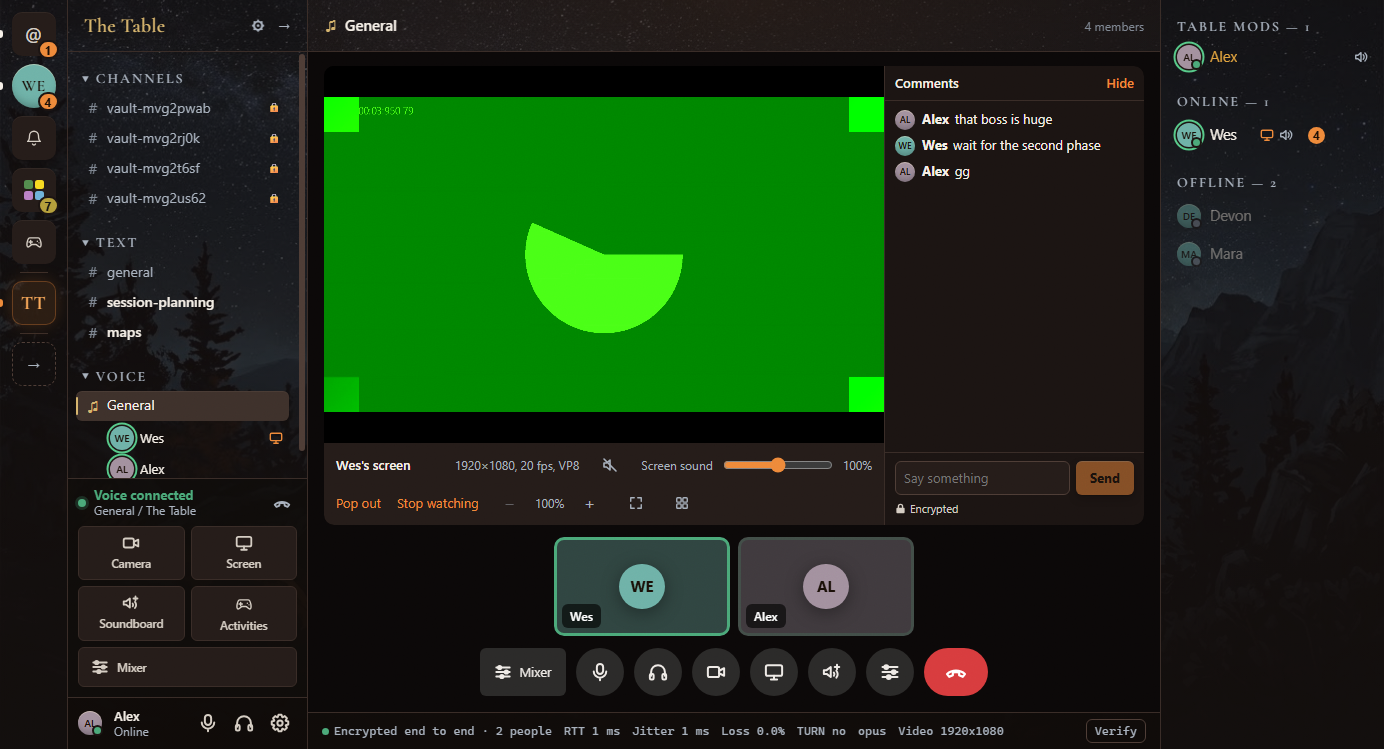
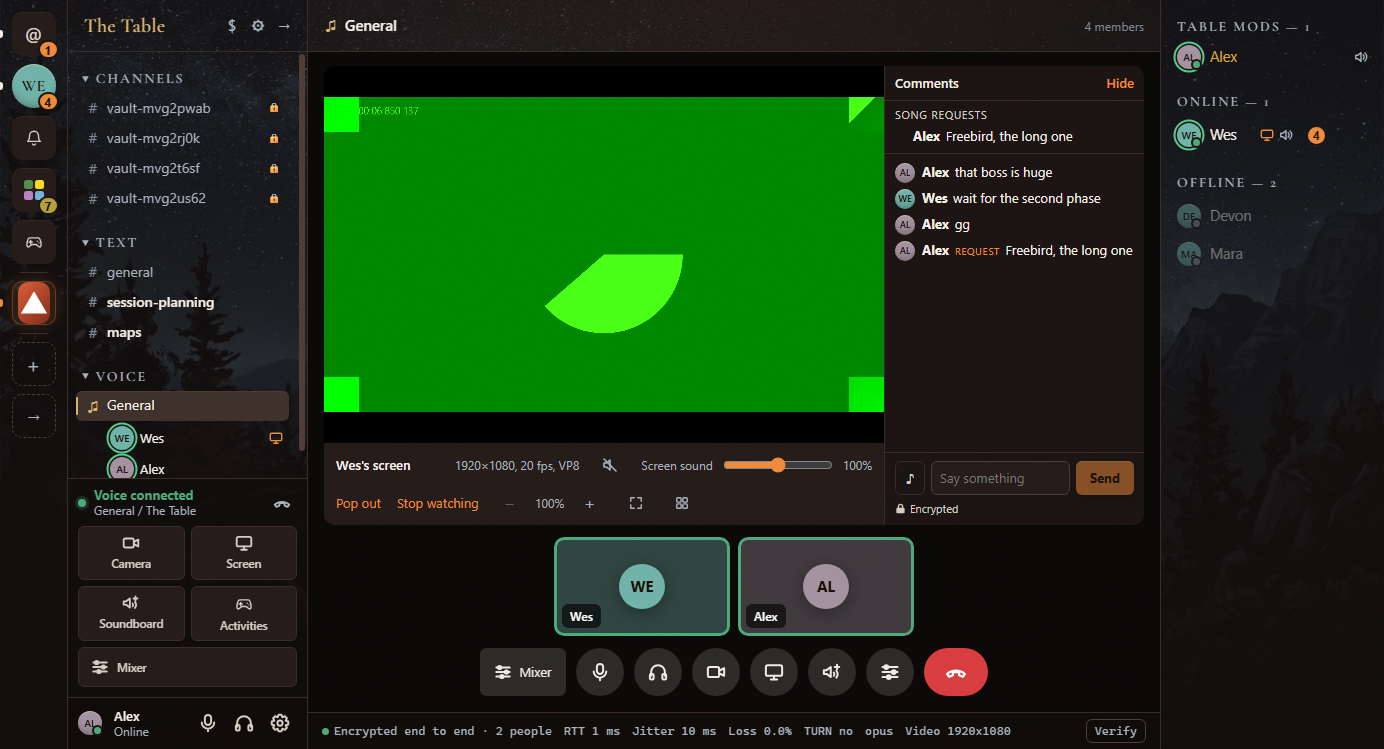
Song requests on a stream: a note button beside the comment box, a queue the sharer clears with Played

diff --git a/web/src/lib/voice-session.ts b/web/src/lib/voice-session.ts
@@ -50,6 +50,7 @@ import {
   RECEIVE_WINDOW_MS,
   STREAM_CHAT_TOPIC,
   StreamComments,
+  type StreamCommentMessage,
   cleanComment,
   newCommentId,
   openStreamComment,
@@ -209,6 +210,8 @@ export interface VoiceSnapshot {
   sharedAudio: SharedAudio[];
   /** Comments on each screen or music share, by publication id. Memory only; gone when the stream ends. */
   comments: Record<string, StreamComment[]>;
+  /** Song requests still waiting on each stream, oldest first. Same life as the comments. */
+  queues: Record<string, StreamComment[]>;
   musicSharing: boolean;
   musicBusy: boolean;
   musicError: string | null;
@@ -265,6 +268,7 @@ const IDLE: VoiceSnapshot = {
   videos: [],
   sharedAudio: [],
   comments: {},
+  queues: {},
   musicSharing: false,
   musicBusy: false,
   musicError: null,
@@ -754,7 +758,7 @@ export class VoiceSession {
     this.comments.clear();
     this.commentRate.clear();
     this.heardRate.clear();
-    if (Object.keys(this.snapshot.comments).length > 0) this.update({ comments: {} });
+    if (Object.keys(this.snapshot.comments).length > 0 || Object.keys(this.snapshot.queues).length > 0) this.update({ comments: {}, queues: {} });
     this.audienceSent = '';
     this.audienceSentAt = 0;
     this.audienceWork = Promise.resolve();
@@ -1072,6 +1076,20 @@ export class VoiceSession {
     return false;
   }
 
+  /** Who is publishing this stream, by user id, or null if nobody is. */
+  sharerOf(sid: string): string | null {
+    const room = this.room;
+    if (!room) return null;
+    for (const participant of [room.localParticipant, ...room.remoteParticipants.values()]) {
+      if (participant.trackPublications.has(sid)) return participant.identity;
+    }
+    return null;
+  }
+
+  private publishComments(): void {
+    this.update({ comments: this.comments.all(), queues: this.comments.queues() });
+  }
+
   /** Milliseconds until this device may comment again. */
   commentWait(): number {
     return this.commentRate.wait(this.userId);
@@ -1082,13 +1100,14 @@ export class VoiceSession {
    * it leaves (`stream-chat.ts`), and only while the call is encrypted. False
    * when nothing was sent: too soon, empty or too long, the stream is gone.
    */
-  async sendComment(stream: string, text: string): Promise<boolean> {
+  async sendComment(stream: string, text: string, kind?: 'request' | 'played'): Promise<boolean> {
     const room = this.room;
     const call = this.call;
-    const clean = cleanComment(text);
+    // A 'played' carries a request's key, not words; only the sharer may send one.
+    const clean = kind === 'played' ? (this.sharerOf(stream) === this.userId ? text : null) : cleanComment(text);
     if (!room || !call || this.snapshot.phase !== 'connected' || !room.isE2EEEnabled || clean === null) return false;
     if (!this.isCommentable(stream) || !this.commentRate.take(this.userId)) return false;
-    const message = { stream, id: newCommentId(), text: clean };
+    const message: StreamCommentMessage = kind ? { stream, id: newCommentId(), text: clean, kind } : { stream, id: newCommentId(), text: clean };
     const context = { callId: call.callId, sender: this.userId, epoch: call.epoch };
     try {
       const sealed = await sealStreamComment(call.mediaKey, context, message);
@@ -1097,8 +1116,14 @@ export class VoiceSession {
       return false;
     }
     if (this.room !== room || !this.isCommentable(stream)) return false;
-    if (this.comments.add(stream, this.userId, message.id, message.text)) this.update({ comments: this.comments.all() });
+    if (this.take(stream, this.userId, message)) this.publishComments();
     return true;
+  }
+
+  /** File a comment, request or played-mark from this sender. True if anything changed. */
+  private take(stream: string, sender: string, message: StreamCommentMessage): boolean {
+    if (message.kind === 'played') return this.sharerOf(stream) === sender && this.comments.played(stream, message.text);
+    return this.comments.add(stream, sender, message.id, message.text, message.kind === 'request');
   }
 
   /** The room says who sent it; the seal proves it. Anything that does not open is dropped without a word. */
@@ -1110,11 +1135,11 @@ export class VoiceSession {
     const message = await openStreamComment(bytes, key, { callId: call.callId, sender, epoch: call.epoch });
     if (!message || this.room !== room || this.call !== call || !this.isCommentable(message.stream)) return;
     if (!this.heardRate.take(sender)) return;
-    if (this.comments.add(message.stream, sender, message.id, message.text)) this.update({ comments: this.comments.all() });
+    if (this.take(message.stream, sender, message)) this.publishComments();
   }
 
   private endComments(sid: string): void {
-    if (this.comments.end(sid)) this.update({ comments: this.comments.all() });
+    if (this.comments.end(sid)) this.publishComments();
   }
 
   /* --------------------------- camera and screen --------------------------- */

diff --git a/web/src/lib/stream-chat.ts b/web/src/lib/stream-chat.ts
@@ -46,6 +46,13 @@ export interface StreamCommentMessage {
   stream: string;
   id: string;
   text: string;
+  /**
+   * A song request (Wes, 2026-10-06: "a comment or que section"; 2026-10-22:
+   * "Meant like a song request queue") goes in the comments and in the
+   * stream's queue. `played` is the sharer taking one off the queue: its text
+   * is the request's key. Absent for a plain comment.
+   */
+  kind?: 'request' | 'played';
 }
 
 export interface StreamComment {
@@ -53,7 +60,12 @@ export interface StreamComment {
   key: string;
   userId: string;
   text: string;
+  request?: boolean;
 }
+
+const KINDS = new Set(['request', 'played']);
+/** A request's key: the sender's id and the comment id. */
+const KEY = /^[^\s:]{1,64}:[0-9a-f]{16}$/;
 
 /**
  * A comment's words, the way everyone will see them: trimmed, newlines and
@@ -76,12 +88,16 @@ export function readStreamComment(bytes: Uint8Array): StreamCommentMessage | nul
     const value = JSON.parse(new TextDecoder().decode(bytes));
     if (!value || typeof value !== 'object' || Array.isArray(value)) return null;
     const keys = Object.keys(value);
-    if (keys.length !== 3 || !['stream', 'id', 'text'].every((key) => keys.includes(key))) return null;
-    const { stream, id, text } = value;
+    const kinded = keys.includes('kind');
+    if (keys.length !== (kinded ? 4 : 3) || !['stream', 'id', 'text'].every((key) => keys.includes(key))) return null;
+    const { stream, id, text, kind } = value;
     if (typeof stream !== 'string' || typeof id !== 'string' || typeof text !== 'string') return null;
     if (!SID.test(stream) || !ID.test(id)) return null;
+    if (kinded && (typeof kind !== 'string' || !KINDS.has(kind))) return null;
+    if (kind === 'played') return KEY.test(text) ? { stream, id, text, kind } : null;
     const clean = cleanComment(text);
-    return clean === null ? null : { stream, id, text: clean };
+    if (clean === null) return null;
+    return kinded ? { stream, id, text: clean, kind } : { stream, id, text: clean };
   } catch {
     return null;
   }
@@ -207,24 +223,44 @@ export class CommentRate {
   }
 }
 
-/** Comments by stream, newest last. Gone when the stream ends or the call does. */
+/** Comments by stream, newest last, and each stream's song requests still waiting. Gone when the stream ends or the call does. */
 export class StreamComments {
-  private readonly streams = new Map<string, { list: StreamComment[]; seen: Set<string> }>();
+  private readonly streams = new Map<string, { list: StreamComment[]; queue: StreamComment[]; seen: Set<string> }>();
 
-  /** False for a comment id this sender already used on this stream. */
-  add(stream: string, userId: string, id: string, text: string): boolean {
+  /** False for a comment id this sender already used on this stream. A request also joins the queue. */
+  add(stream: string, userId: string, id: string, text: string, request = false): boolean {
     let entry = this.streams.get(stream);
-    if (!entry) this.streams.set(stream, (entry = { list: [], seen: new Set() }));
+    if (!entry) this.streams.set(stream, (entry = { list: [], queue: [], seen: new Set() }));
     const key = `${userId}:${id}`;
     if (entry.seen.has(key)) return false;
     entry.seen.add(key);
+    const comment: StreamComment = request ? { key, userId, text, request: true } : { key, userId, text };
     // A new array each time, so a screen drawing the old one sees the change.
-    entry.list = [...entry.list, { key, userId, text }].slice(-KEEP);
+    entry.list = [...entry.list, comment].slice(-KEEP);
+    if (request) entry.queue = [...entry.queue, comment].slice(-KEEP);
+    return true;
+  }
+
+  /** The sharer played (or passed on) a request. True if it was waiting. */
+  played(stream: string, key: string): boolean {
+    const entry = this.streams.get(stream);
+    if (!entry || !entry.queue.some((comment) => comment.key === key)) return false;
+    entry.queue = entry.queue.filter((comment) => comment.key !== key);
     return true;
   }
 
   list(stream: string): StreamComment[] {
     return this.streams.get(stream)?.list ?? [];
+  }
+
+  queue(stream: string): StreamComment[] {
+    return this.streams.get(stream)?.queue ?? [];
+  }
+
+  queues(): Record<string, StreamComment[]> {
+    const out: Record<string, StreamComment[]> = {};
+    for (const [stream, entry] of this.streams) if (entry.queue.length > 0) out[stream] = entry.queue;
+    return out;
   }
 
   /** The stream ended. True if it had anything. */

diff --git a/web/src/components/StreamChat.tsx b/web/src/components/StreamChat.tsx
@@ -63,7 +63,10 @@ export function StreamChat({ stream, variant }: { stream: string; variant: 'side
   const voice = useVoice();
   const personOf = usePeople();
   const comments = voice.comments[stream] ?? NONE;
+  const queue = voice.queues[stream] ?? NONE;
   const [draft, setDraft] = useState('');
+  /** The next send is a song request, not a comment. */
+  const [asking, setAsking] = useState(false);
   const [resting, setResting] = useState(false);
   const [open, setOpenState] = useState(variant !== 'side' || columnWanted);
   const setOpen = (next: boolean) => {
@@ -106,9 +109,18 @@ export function StreamChat({ stream, variant }: { stream: string; variant: 'side
     if (!draft.trim() || tooLong || resting) return;
     const text = draft;
     // The rate is counted the moment this is called, so the rest that follows knows how long to wait.
-    const sending = session.sendComment(stream, text);
+    const sending = session.sendComment(stream, text, asking ? 'request' : undefined);
     setResting(true);
-    if (await sending) setDraft((now) => (now === text ? '' : now));
+    if (await sending) {
+      setDraft((now) => (now === text ? '' : now));
+      setAsking(false);
+    }
+  };
+  const sharing = session.sharerOf(stream) === selfId;
+  const played = (key: string): void => {
+    if (resting) return;
+    void session.sendComment(stream, key, 'played');
+    setResting(true);
   };
 
   if (variant === 'side' && !open) {
@@ -131,6 +143,25 @@ export function StreamChat({ stream, variant }: { stream: string; variant: 'side
           </button>
         </header>
       ) : null}
+      {queue.length > 0 ? (
+        <div className="stream-chat-queue">
+          <div className="stream-chat-queue-head">Song requests</div>
+          <ol>
+            {queue.map((request) => (
+              <li key={request.key}>
+                <span className="stream-chat-words">
+                  <strong>{personOf(request.userId).name}</strong> {request.text}
+                </span>
+                {sharing ? (
+                  <button type="button" className="link-button" disabled={resting} onClick={() => played(request.key)}>
+                    Played
+                  </button>
+                ) : null}
+              </li>
+            ))}
+          </ol>
+        </div>
+      ) : null}
       <ol
         ref={list}
         className="stream-chat-list"
@@ -152,7 +183,7 @@ export function StreamChat({ stream, variant }: { stream: string; variant: 'side
                 </span>
               )}
               <span className="stream-chat-words">
-                <strong>{person.name}</strong> {comment.text}
+                <strong>{person.name}</strong> {comment.request ? <span className="stream-chat-request">request</span> : null} {comment.text}
               </span>
             </li>
           );
@@ -168,12 +199,22 @@ export function StreamChat({ stream, variant }: { stream: string; variant: 'side
             void send();
           }}
         >
+          <button
+            type="button"
+            className={`stream-chat-ask${asking ? ' on' : ''}`}
+            title={asking ? 'Sending as a song request' : 'Request a song'}
+            aria-pressed={asking}
+            disabled={!voice.encrypted}
+            onClick={() => setAsking((now) => !now)}
+          >
+            &#9834;
+          </button>
           <input
             className="stream-chat-input"
             value={draft}
             onChange={(event) => setDraft(event.target.value)}
-            placeholder="Say something"
-            aria-label="Comment on this stream"
+            placeholder={asking ? 'Request a song' : 'Say something'}
+            aria-label={asking ? 'Request a song on this stream' : 'Comment on this stream'}
             disabled={!voice.encrypted}
           />
           <button

diff --git a/web/src/tests/stream-chat.test.ts b/web/src/tests/stream-chat.test.ts
@@ -107,3 +107,28 @@ test('each stream keeps its newest 50, ignores a repeated id, and empties when i
   comments.clear();
   assert.deepEqual(comments.all(), {});
 });
+
+test('a song request is a comment with a kind; a played mark names a request key; anything else is refused', () => {
+  const request = { ...good, kind: 'request' };
+  assert.deepEqual(readStreamComment(encode(request)), request);
+  const played = { ...good, kind: 'played', text: 'alex:0123456789abcdef' };
+  assert.deepEqual(readStreamComment(encode(played)), played);
+  assert.equal(readStreamComment(encode({ ...good, kind: 'played' })), null, 'played needs a key, not words');
+  assert.equal(readStreamComment(encode({ ...good, kind: 'shout' })), null);
+  assert.equal(readStreamComment(encode({ ...good, kind: 'request', extra: 1 })), null);
+
+  const comments = new StreamComments();
+  comments.add('TR_a', 'alex', '0000000000000001', 'play freebird', true);
+  comments.add('TR_a', 'wes', '0000000000000002', 'nice', false);
+  comments.add('TR_a', 'mara', '0000000000000003', 'anything by prince', true);
+  assert.deepEqual(comments.queue('TR_a').map((entry) => entry.text), ['play freebird', 'anything by prince']);
+  assert.equal(comments.list('TR_a').length, 3, 'a request is in the comments too');
+  assert.equal(comments.list('TR_a')[0]?.request, true);
+  assert.equal(comments.played('TR_a', 'alex:0000000000000001'), true);
+  assert.equal(comments.played('TR_a', 'alex:0000000000000001'), false, 'already off the queue');
+  assert.equal(comments.played('TR_a', 'wes:0000000000000002'), false, 'a plain comment was never queued');
+  assert.deepEqual(comments.queue('TR_a').map((entry) => entry.text), ['anything by prince']);
+  assert.deepEqual(Object.keys(comments.queues()), ['TR_a']);
+  comments.end('TR_a');
+  assert.deepEqual(comments.queues(), {});
+});

diff --git a/web/src/changelog.ts b/web/src/changelog.ts
@@ -22,8 +22,9 @@ export const CHANGELOG: readonly Release[] = [
   {
     id: '2026-10-22-profile-card-message',
     date: '2026-10-22',
-    title: 'Server pictures, Queens crosses off for you',
+    title: 'Server pictures, song requests, Queens crosses off for you',
     notes: [
+      'Song requests on a stream. Next to the comment box on a screen or music share there is a note button: press it and what you type goes in as a request. Requests sit in a list at the top of the comments until whoever is sharing marks them played. Like the comments, they are gone when the stream ends.',
       'A server can have a picture now. Server settings, Overview: a still picture or a GIF, up to 2 MB. It shows on the rail in place of the letters.',
       'Queens works like the real one: put a queen down and her row, column, colour and the squares around her are crossed off for you. Take her back and those crosses go with her; your own stay. Tapping one of those crossed squares puts a queen straight there.',
       'Typing into the box on a profile card and pressing Enter sometimes jumped to the conversation with nothing in it. It now sends first and opens the conversation after; if it cannot send (they have no key yet, say), the card says so instead of going quiet.',

diff --git a/web/src/styles.css b/web/src/styles.css
@@ -2824,6 +2824,51 @@ video.mirrored {
   padding: 8px 10px;
   border-top: 1px solid var(--line);
 }
+.stream-chat-ask {
+  flex: none;
+  width: 30px;
+  border: 1px solid var(--line);
+  border-radius: var(--radius);
+  background: transparent;
+  color: var(--text-muted);
+  font-size: 15px;
+  cursor: pointer;
+}
+.stream-chat-ask.on {
+  color: var(--accent);
+  border-color: var(--accent);
+}
+.stream-chat-queue {
+  padding: 6px 10px;
+  border-bottom: 1px solid var(--line);
+}
+.stream-chat-queue-head {
+  font-size: 11px;
+  letter-spacing: 0.06em;
+  text-transform: uppercase;
+  color: var(--text-muted);
+  margin-bottom: 2px;
+}
+.stream-chat-queue ol {
+  margin: 0;
+  padding-left: 18px;
+}
+.stream-chat-queue li {
+  display: flex;
+  gap: 6px;
+  align-items: baseline;
+  padding: 2px 0;
+}
+.stream-chat-queue li .stream-chat-words {
+  flex: 1;
+}
+.stream-chat-request {
+  font-size: 10px;
+  text-transform: uppercase;
+  letter-spacing: 0.06em;
+  color: var(--accent);
+  margin-right: 2px;
+}
 .stream-chat-input {
   flex: 1;
   min-width: 0;

diff --git a/docs/HANDOFF.md b/docs/HANDOFF.md
@@ -4,10 +4,13 @@ Living state. Update this at the end of every working session.
 
 ## Pick up here (2026-10-22, morning)
 
+**Closed by Wes, 2026-10-22:** Lady of the Lake theme (drop it, "we don't care about that"); ask-for-a-server works ("tested it with someone"); the screen-share audio leak ("I think the audio share is now fixed"); Discord question answered. Mac: Wes wants every desktop change built "with intentions of updating it for both windows and Mac", Trey testing and publishing the Mac side. A Mac build cannot be made on this PC (signing and notarising need macOS), so the rule is: desktop version bumps and `main` stay Mac-ready, Trey runs `npm run dist:mac` from `main` and sends the three files, `scripts/publish-mac.sh` runs here on Wes's yes.
+
 **BUILT, NOT RELEASED (Wes, 2026-10-22: "make queenies work like the real version where once you add a queen it auto blocks the direct lines" and "Let people add pics or gifs for server icons"):**
 1. **Queenies auto-cross.** `Queens.tsx`: a placed queen's row, column, colour region and eight neighbours show as crosses (derived from the queens each render, `covered`, not stored; lighter style `.qn-cross.auto`). Tapping an auto-crossed empty square goes straight to a queen. `stuck()` sees the derived crosses. Help text in `GameHead.tsx` updated. Shot: `docs/shots/queens-auto-cross.png`.
 2. **Server pictures.** Table `server_icons` (migration 0036), routes in `server/src/routes/server-icon.ts`: `POST/DELETE /api/servers/:id/icon` (MANAGE_SERVER, 2 MB, png/jpeg/webp/gif), `GET /api/server-icons/:serverId/:iconId` (members only, cached a week, address changes per picture, old one deleted). `PATCH /api/servers/:id` no longer accepts `iconUrl` (an outside URL would be a third party in the data path). Web: Overview pane of server settings has the picker; stills go through `scrubImage` + `squareOff` (now `web/src/lib/square-off.ts`, shared with avatars), GIFs are sent as they are so they keep moving (no EXIF in GIF). Rail shows `<img class="rail-icon">` in place of the letters. Tests: `server-icon.test.ts`, and a hidden-from-outsiders case in `route-authorization.test.ts`. Shots: `docs/shots/server-icon.png`, `server-icon-rail.png`.
-Changelog: both are notes on `2026-10-22-profile-card-message` (title "Server pictures, Queens crosses off for you"). To ship: `scripts/release.sh` on Wes's yes. Dev API note: `tsx watch` did not pick up the new route/migration; it had to be killed and started again (PAPERCUTS 2026-10-22).
+3. **Song request queue on streams (Wes, 2026-10-22, on "comment or que section": "Meant like a song request queue").** Same sealed packet as a comment with an optional `kind`: `request` (goes in the comments with a REQUEST tag and in the stream's queue) or `played` (text is the request key; only the stream's sharer may send one, checked on both ends with `sharerOf(sid)`). `StreamComments` keeps a `queue` per stream; snapshot has `queues`. `StreamChat.tsx`: a note (&#9834;) toggle beside the box, a "Song requests" list above the comments, "Played" buttons for the sharer. Memory only, gone with the stream. Test at the end of `stream-chat.test.ts`. Checked live: `scripts/stream-chat-check.mjs 2` (request, non-sharer refused, played empties the queue) and `3` with `CHAT_SHOTS=docs/shots` (shots `stream-chat-sharer.png`, `stream-chat-screen.png`); both need `npm run dev:livekit` running.
+Changelog: all three are notes on `2026-10-22-profile-card-message` (title "Server pictures, Queens crosses off for you"). To ship: `scripts/release.sh` on Wes's yes. Dev API note: `tsx watch` did not pick up the new route/migration; it had to be killed and started again (PAPERCUTS 2026-10-22).
 
 **LIVE 2026-10-22 ~09:10 ET:** client 1792674470768 (profile-card message sends before switching to the DM).
 
